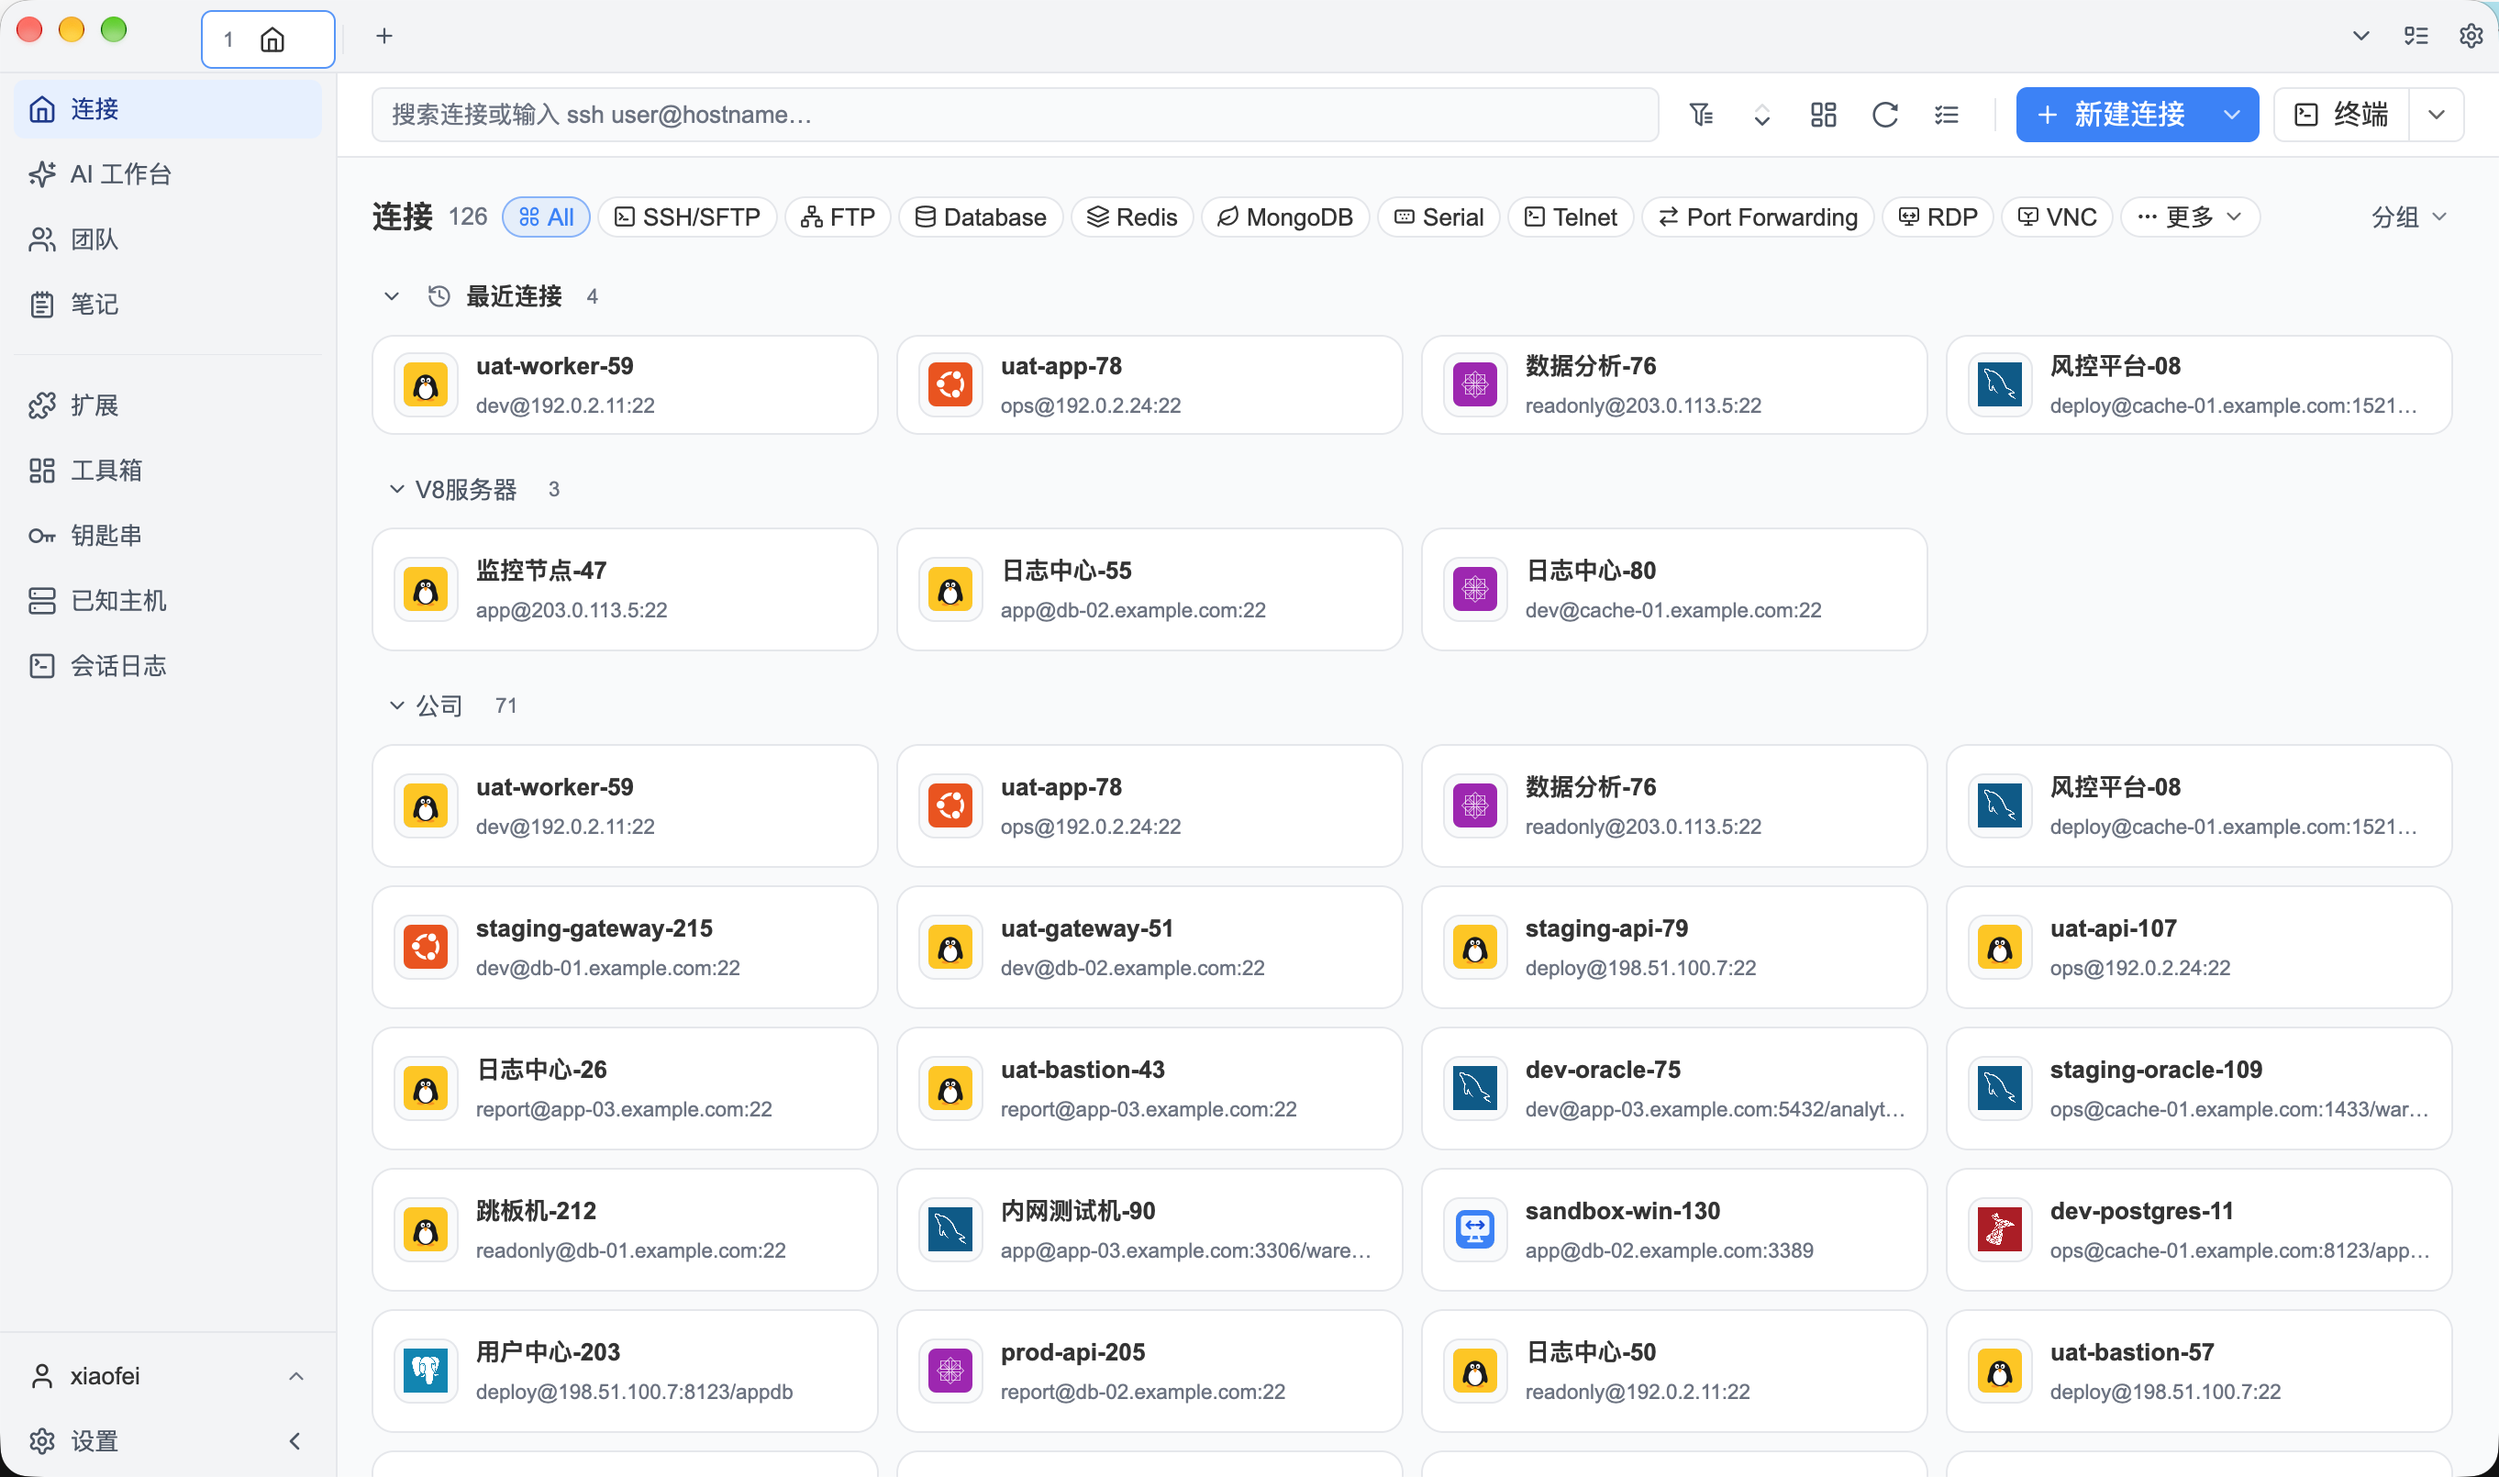
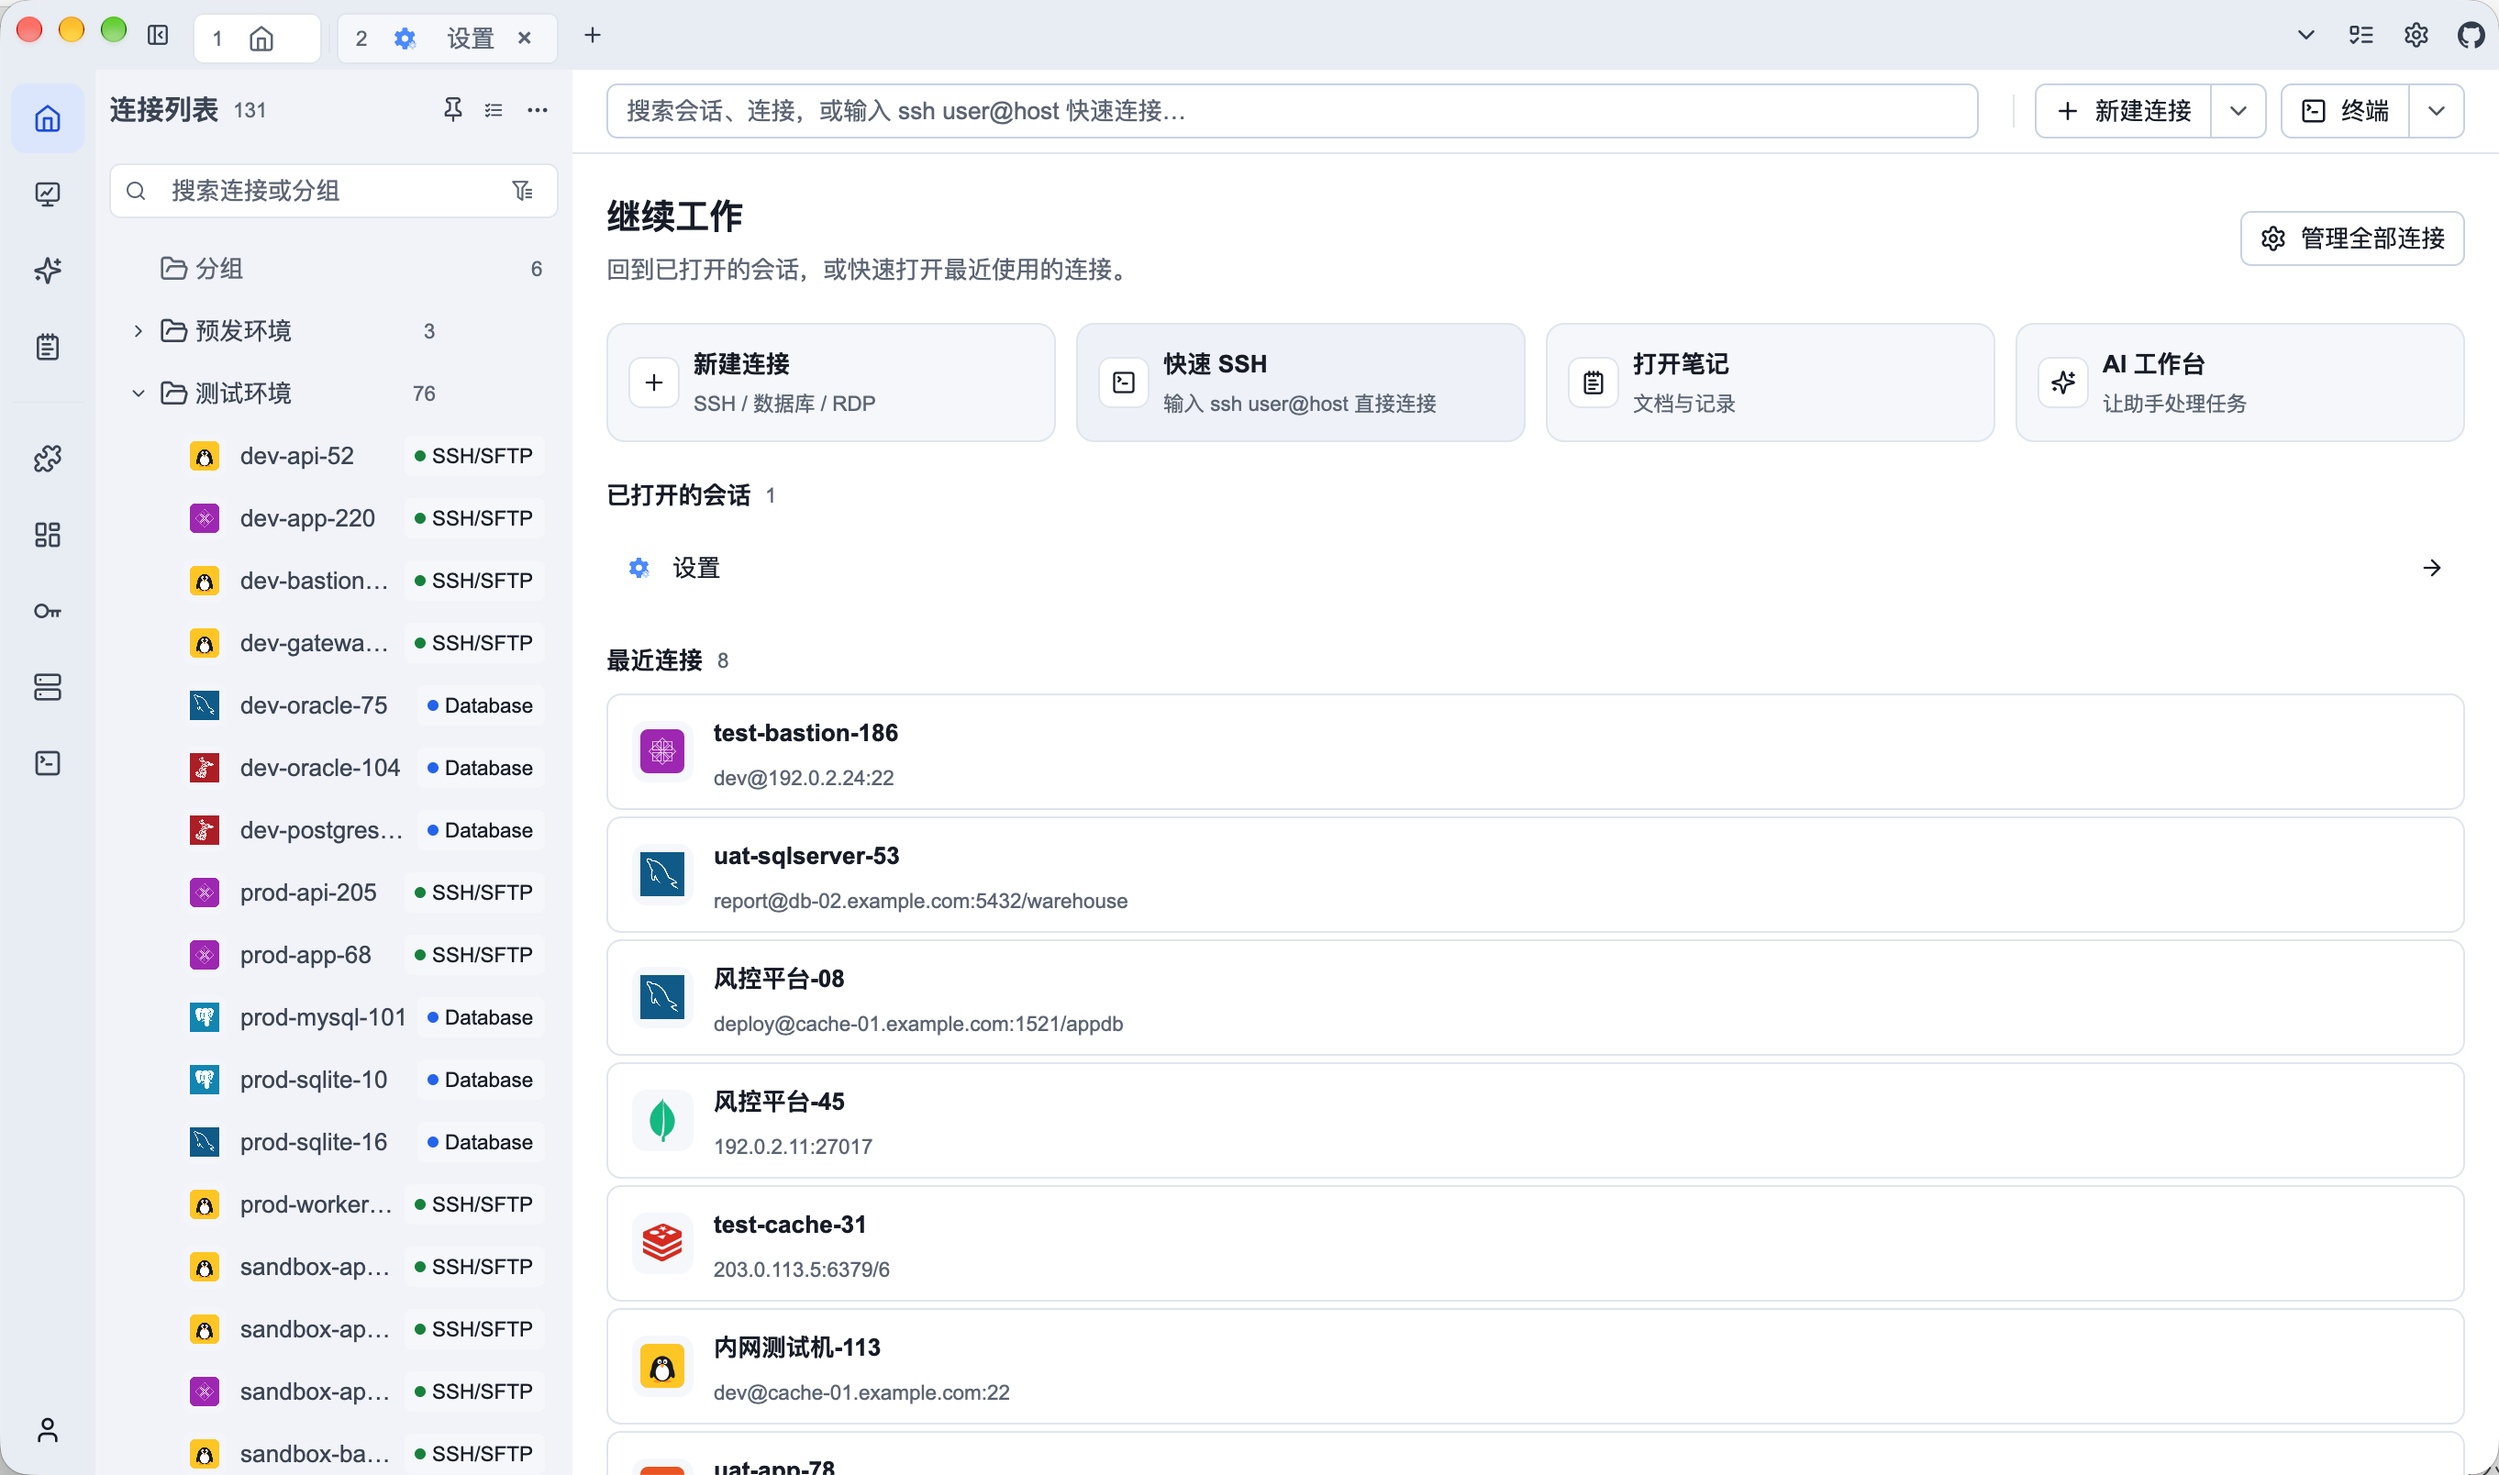
docs: 增加 LINUX DO 社区友链，更新首页截图
- README.md / README_CN.md「社区与支持」新增 LINUX DO 链接，Linux.do 开源推广要求仓库内存在真实可访问的社区链接
- docs-site 三语导航与页脚增加 LINUX DO 入口，帖子里的 docs 站也能看到
- app.png / app1.png 更新为当前版本界面截图

验证：docs-site 下 vitepress build 通过（2.62s），产物首页含 2 处 https://linux.do；dist 未被跟踪。

diff --git a/README.md b/README.md
@@ -182,6 +182,7 @@ See [CONTRIBUTING.md](CONTRIBUTING.md) for the complete development guide.
 Navop is maintained independently. Stars, focused pull requests, and bug reports all help sustain the project.
 
 - [Report a bug or request a feature](https://github.com/feigeCode/navop/issues)
+- Community: [LINUX DO](https://linux.do) — where Chinese-speaking developers hang out
 - QQ Group: [860670605](https://qm.qq.com/cgi-bin/qm/qr?k=&group_code=860670605)
 - WeChat Group: [Join](https://docs.qq.com/doc/DVEFFd2RnSnJLcFBD)
 - Legacy OnetCli repository: [feigeCode/onetcli](https://github.com/feigeCode/onetcli)

diff --git a/README_CN.md b/README_CN.md
@@ -182,6 +182,7 @@ cargo fmt --check
 Navop 由个人长期维护。Star、聚焦的小型 PR 和 Bug 报告都有助于项目持续发展。
 
 - [反馈 Bug 或提出功能建议](https://github.com/feigeCode/navop/issues)
+- 社区：[LINUX DO](https://linux.do)，佬友们的聚集地
 - QQ 群：[860670605](https://qm.qq.com/cgi-bin/qm/qr?k=&group_code=860670605)
 - 微信群：[加入](https://docs.qq.com/doc/DVEFFd2RnSnJLcFBD)
 - 旧版 OnetCli 仓库：[feigeCode/onetcli](https://github.com/feigeCode/onetcli)
